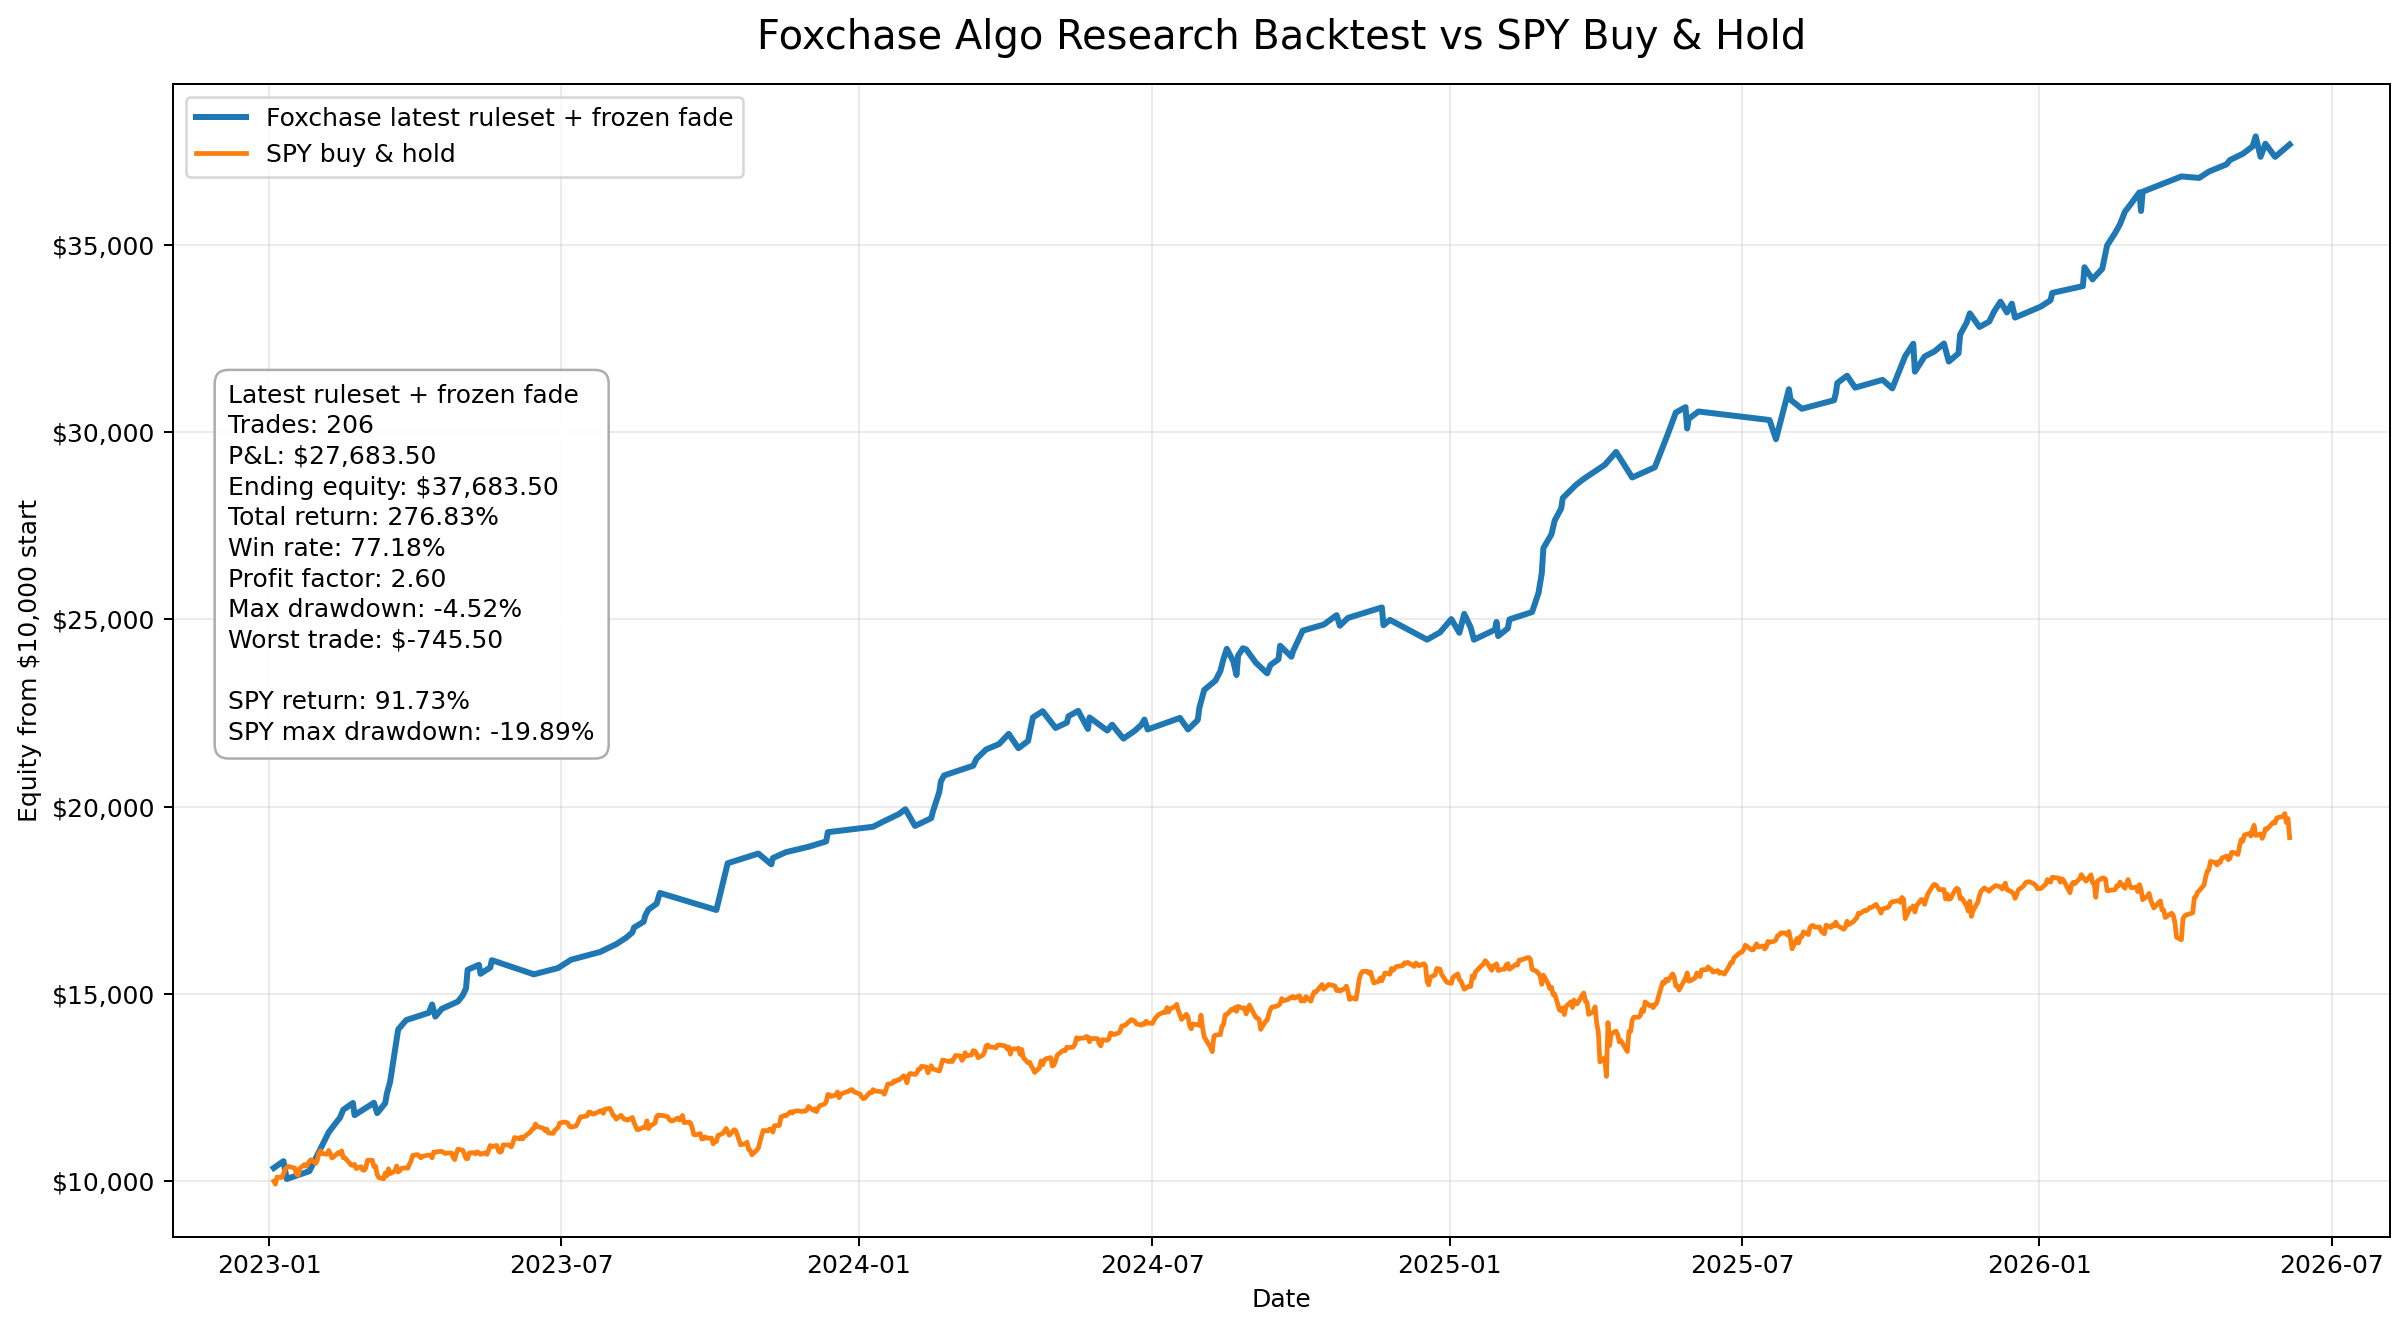
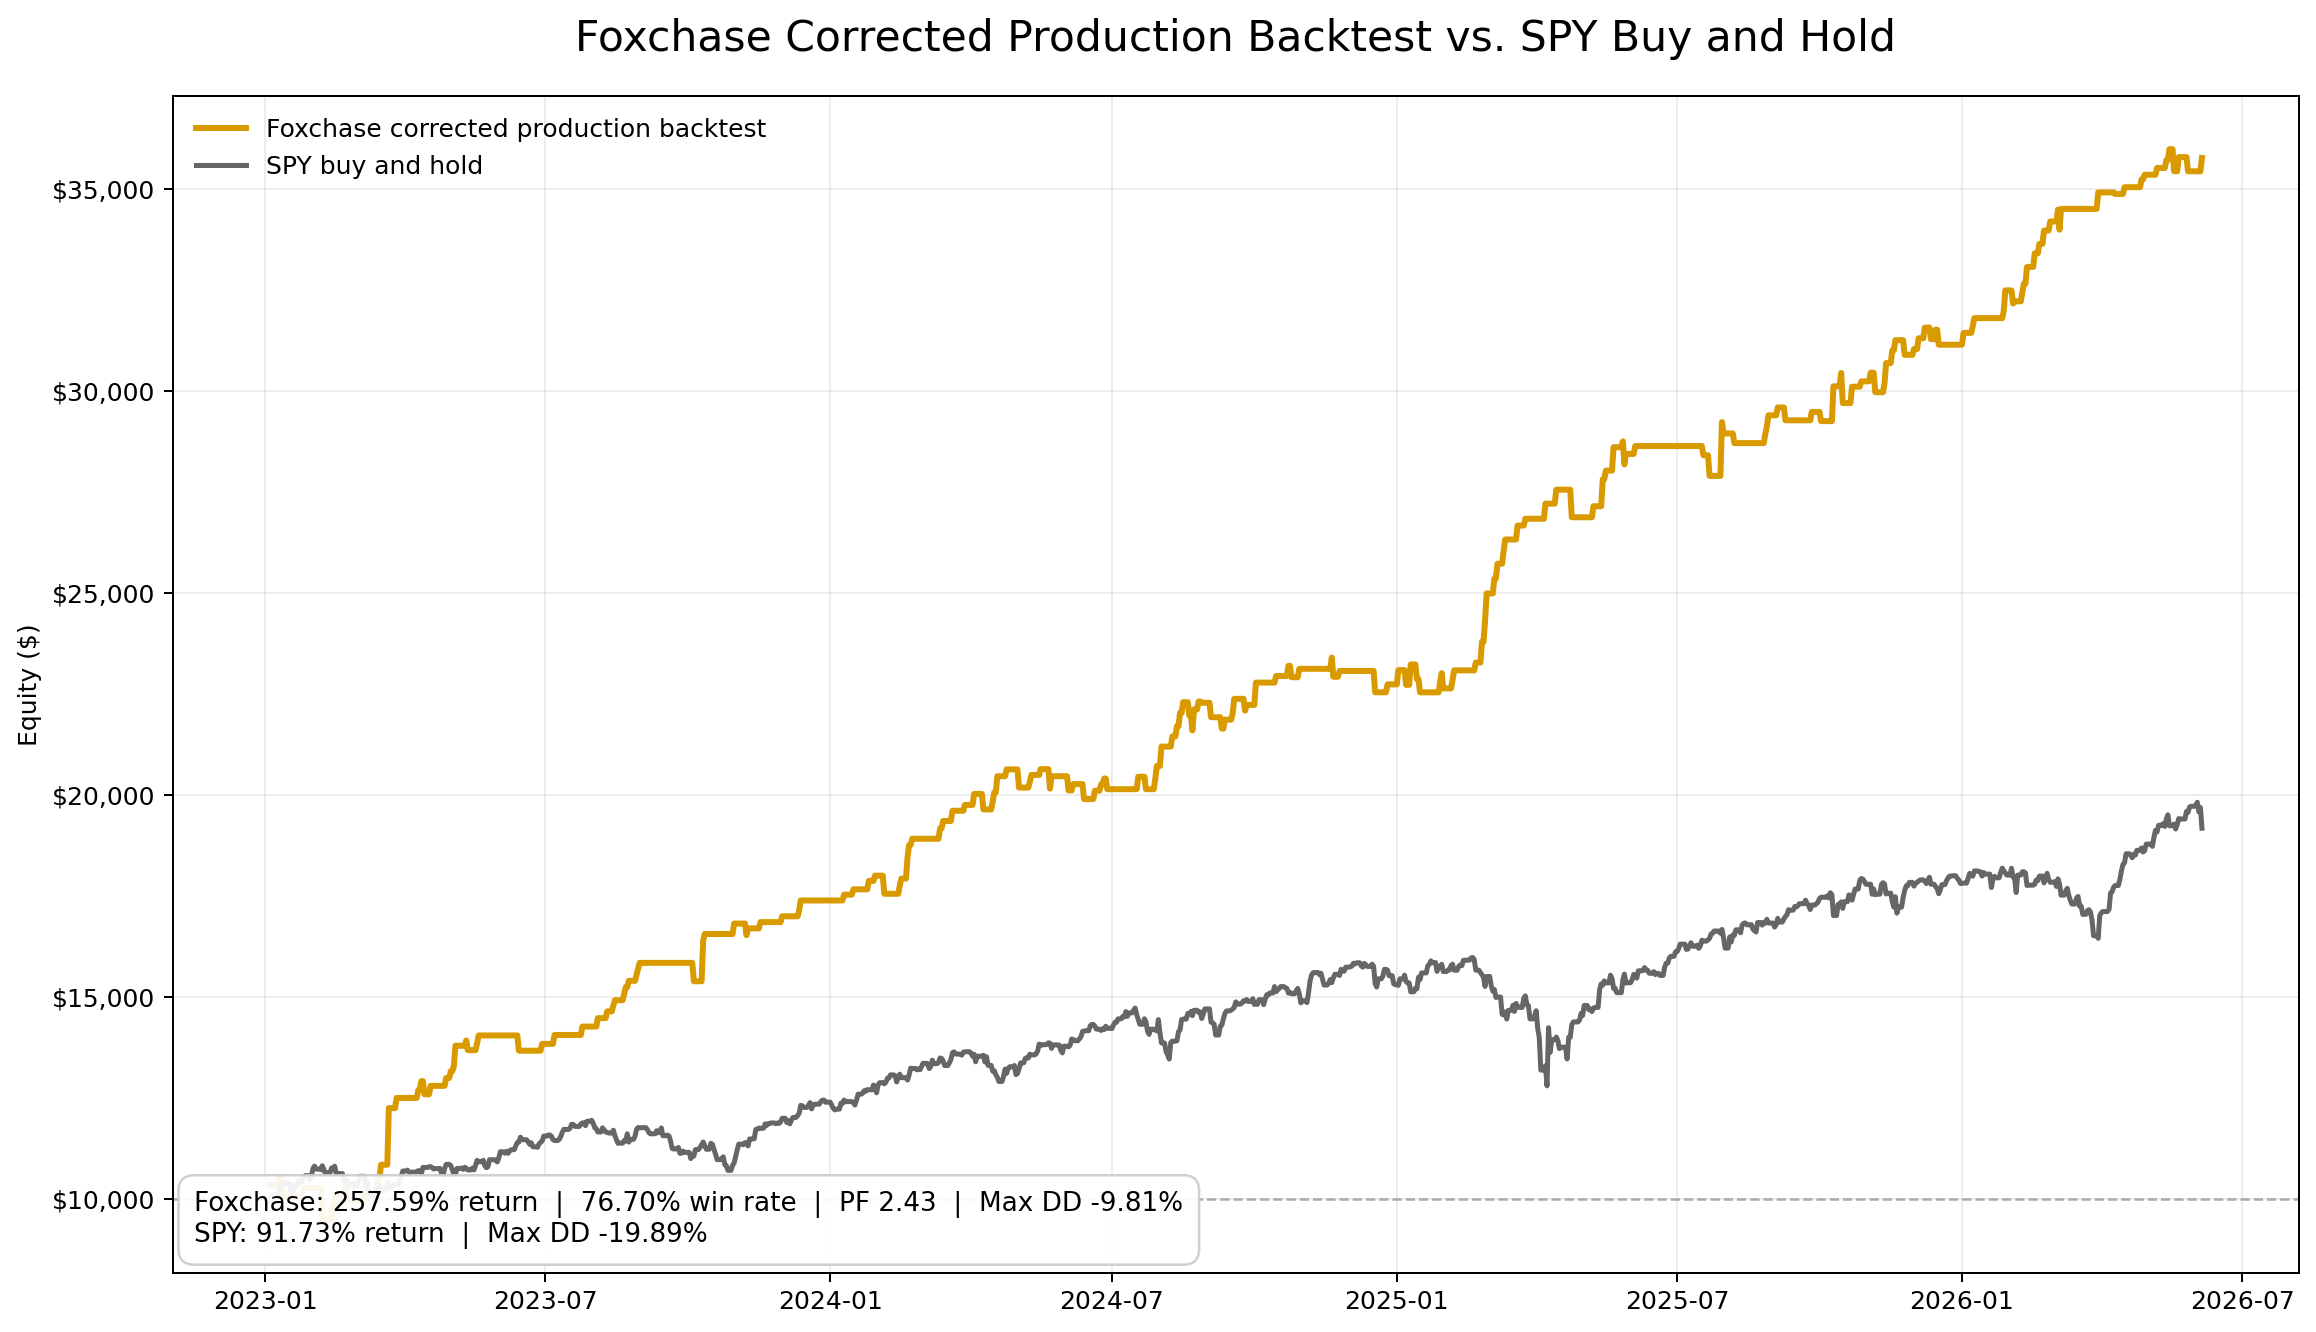
Correct algo backtest metrics and chart

diff --git a/algo-pnl.html b/algo-pnl.html
@@ -350,52 +350,55 @@ function setTextIfExists(id, value) {
 
     <div class="pnl-note">
       <strong>Research backtest, not live performance:</strong>
-      The chart below shows a historical research backtest of the latest deployed Foxchase algo research ruleset compared with SPY buy and hold.
-      The latest research ruleset includes the official selected-trade configuration, the VXX volatility guardrail, the R1 call-fly replacement candidate, and the frozen no-steal failed-downside fade sleeve now enabled in live/paper.
+      The chart below shows the corrected historical production research ledger compared with SPY buy and hold.
+      The corrected research ledger includes the official selected-trade configuration, the VXX volatility guardrail, the frozen R1 call-butterfly replacement rule, and the no-steal failed-downside fade sleeve.
       This is hypothetical backtested performance and was not achieved by the live account during the full period shown.
     </div>
 
     <div class="chart-box">
       <img
         src="/images/foxchase_latest_algo_vs_spy.png"
-        alt="Foxchase Algo Latest Ruleset + Frozen Fade Research Backtest vs SPY Buy and Hold"
+        alt="Foxchase corrected production research backtest versus SPY buy and hold"
         style="width:100%; height:auto; border-radius:8px;"
       >
     </div>
 
 
-    <!-- latest-ruleset-start -->
+        <!-- latest-ruleset-start -->
     <h2>Latest Deployed Research Ruleset</h2>
 
     <div class="pnl-note">
       <strong>Latest deployed research ruleset:</strong>
-      The current live/paper bot includes the official selected-trade framework, a narrow VXX volatility guardrail,
-      an R1 call-butterfly replacement candidate, and a frozen no-steal failed-downside fade sleeve. This latest research variant produced +$27,683.50 on a $10,000 starting account,
-      ending at $37,683.50. This represents a 276.84% total return over the research sample, not annualized,
-      with a 77.18% win rate, 2.60 profit factor, and -4.52% historical maximum drawdown.
+      The corrected production research ledger contains 206 historical trades and uses a fixed 10% risk budget per trade with non-compounded position sizing.
+      It includes the official selected-trade framework, the VXX volatility guardrail, the frozen R1 call-butterfly replacement rule, and the no-steal failed-downside fade sleeve.
+      The corrected backtest produced +$25,759.00 on a $10,000.00 starting account, ending at $35,759.00.
+      This represents a 257.59% total return over the research sample, not annualized, with a 76.70% win rate,
+      2.43 profit factor, and -9.81% historical maximum drawdown.
     </div>
 
     <div class="research-metrics">
       <div class="research-card"><div class="research-label">Latest Research Sample</div><div class="research-value">206 trades</div></div>
-      <div class="research-card"><div class="research-label">Latest Research P&amp;L</div><div class="research-value">+$27,683.50</div></div>
-      <div class="research-card"><div class="research-label">Ending Equity</div><div class="research-value">$37,683.50</div></div>
-      <div class="research-card"><div class="research-label">Total Return</div><div class="research-value">276.84%</div></div>
-      <div class="research-card"><div class="research-label">Win Rate</div><div class="research-value">77.18%</div></div>
-      <div class="research-card"><div class="research-label">Profit Factor</div><div class="research-value">2.60</div></div>
-      <div class="research-card"><div class="research-label">Max Drawdown</div><div class="research-value">-4.52%</div></div>
-      <div class="research-card"><div class="research-label">Worst Trade</div><div class="research-value">-$745.50</div></div>
+      <div class="research-card"><div class="research-label">Latest Research P&amp;L</div><div class="research-value">+$25,759.00</div></div>
+      <div class="research-card"><div class="research-label">Ending Equity</div><div class="research-value">$35,759.00</div></div>
+      <div class="research-card"><div class="research-label">Total Return</div><div class="research-value">257.59%</div></div>
+      <div class="research-card"><div class="research-label">Win Rate</div><div class="research-value">76.70%</div></div>
+      <div class="research-card"><div class="research-label">Profit Factor</div><div class="research-value">2.43</div></div>
+      <div class="research-card"><div class="research-label">Max Drawdown</div><div class="research-value">-9.81%</div></div>
+      <div class="research-card"><div class="research-label">Average Trade</div><div class="research-value">$125.04</div></div>
+      <div class="research-card"><div class="research-label">Median Trade</div><div class="research-value">$195.00</div></div>
+      <div class="research-card"><div class="research-label">Best Trade</div><div class="research-value">$1,400.00</div></div>
+      <div class="research-card"><div class="research-label">Worst Trade</div><div class="research-value">-$765.00</div></div>
       <div class="research-card"><div class="research-label">SPY Buy &amp; Hold Return</div><div class="research-value">91.73%</div></div>
       <div class="research-card"><div class="research-label">SPY Buy &amp; Hold Max DD</div><div class="research-value">-19.89%</div></div>
     </div>
     <!-- latest-ruleset-end -->
 
-    <h2>Research Durability</h2>
+        <h2>Research Durability</h2>
 
     <div class="pnl-note">
       <strong>Research sample context:</strong>
-      The latest 206-trade research ruleset produced $27,683.50 in total P&amp;L on a $10,000 starting account,
-      ending at $37,683.50. This represents a 276.84% total return over the research sample, not annualized,
-      with a 77.18% win rate, 2.60 profit factor, and -4.52% historical maximum drawdown.
+      The corrected 206-trade production research ledger generated +$25,759.00 from $10,000.00 of starting equity.
+      Results below are recalculated directly from the corrected trade ledger rather than carried forward from the superseded butterfly ledger.
     </div>
 
     <div class="research-metrics">
@@ -405,9 +408,8 @@ function setTextIfExists(id, value) {
       <div class="research-card"><div class="research-label">Profitable Rolling 12-Month Windows</div><div class="research-value">31 / 31</div></div>
       <div class="research-card"><div class="research-label">Worst Rolling 3-Month P&amp;L</div><div class="research-value">-$484.50</div></div>
       <div class="research-card"><div class="research-label">Worst Rolling 6-Month P&amp;L</div><div class="research-value">+$1,919.50</div></div>
-      <div class="research-card"><div class="research-label">Worst Rolling 12-Month P&amp;L</div><div class="research-value">+$4,622.50</div></div>
+      <div class="research-card"><div class="research-label">Worst Rolling 12-Month P&amp;L</div><div class="research-value">+$4,634.00</div></div>
     </div>
-
 
     <h2>Anonymized Setup Attribution</h2>
 
@@ -417,7 +419,7 @@ function setTextIfExists(id, value) {
           <tr>
             <th>Strategy Sleeve</th>
             <th>Trades</th>
-            <th>P&L</th>
+            <th>P&amp;L</th>
             <th>Win Rate</th>
             <th>PF</th>
             <th>Median</th>
@@ -427,32 +429,27 @@ function setTextIfExists(id, value) {
         <tbody>
           <tr><td>Setup A</td><td>108</td><td>$6,509.00</td><td>72.22%</td><td>1.64</td><td>$168.00</td><td>-$570.00</td></tr>
           <tr><td>Setup B</td><td>24</td><td>$5,153.50</td><td>83.33%</td><td>3.90</td><td>$301.00</td><td>-$511.00</td></tr>
-          <tr><td>Setup C</td><td>16</td><td>$4,705.00</td><td>81.25%</td><td>3.41</td><td>$502.25</td><td>-$745.50</td></tr>
-          <tr><td>Setup D</td><td>11</td><td>$2,645.50</td><td>81.82%</td><td>2.34</td><td>$500.00</td><td>-$997.50</td></tr>
-          <tr><td>Setup E</td><td>34</td><td>$1,102.50</td><td>70.59%</td><td>1.28</td><td>$162.00</td><td>-$855.00</td></tr>
-            <tr>
-              <td>Setup F</td>
-              <td>19</td>
-              <td>$3,027.00</td>
-              <td>89.47%</td>
-              <td>4.33</td>
-              <td>$208.00</td>
-              <td>-$546.00</td>
-            </tr>
+          <tr><td>Setup C</td><td>10</td><td>$2,204.00</td><td>70.00%</td><td>2.13</td><td>$440.00</td><td>-$745.50</td></tr>
+          <tr><td>Setup D</td><td>8</td><td>$4,123.00</td><td>100.00%</td><td>∞</td><td>$509.25</td><td>$480.00</td></tr>
+          <tr><td>Setup E</td><td>6</td><td>$2,467.00</td><td>83.33%</td><td>4.22</td><td>$350.75</td><td>-$765.00</td></tr>
+          <tr><td>Setup F</td><td>31</td><td>$2,275.50</td><td>74.19%</td><td>1.96</td><td>$168.00</td><td>-$483.00</td></tr>
+          <tr><td>Setup G</td><td>19</td><td>$3,027.00</td><td>89.47%</td><td>4.33</td><td>$208.00</td><td>-$546.00</td></tr>
         </tbody>
       </table>
     </div>
 
     <p class="small">
-      Setup-level attribution is shown using anonymized strategy sleeves. Setups A–E represent the original official selected-trade framework, while Setup F represents the frozen no-steal expansion sleeve now enabled in live/paper. The exact trigger logic, regime definitions,
-      level framework, and execution rules are proprietary to the Foxchase framework.
+      Setup-level attribution is shown using seven anonymized production sleeves.
+      Setups A–F represent the corrected primary production framework, including the frozen call-butterfly replacement as its own sleeve.
+      Setup G represents the frozen no-steal failed-downside fade sleeve.
+      The exact trigger logic, regime definitions, level framework, and execution rules are proprietary to the Foxchase framework.
     </p>
 
     <p class="small">
       Backtest assumptions: $10,000 starting equity, fixed 10% risk budget per trade, and non-compounded position sizing.
       Position size does not increase as the backtest equity curve grows.
       The backtest allows one trade per day maximum, uses SPY 0DTE options, and assumes mid-price entry/exit fills.
-      The latest ruleset uses replacement logic for the R1 call-butterfly candidate rather than adding a second same-day trade. The failed-downside fade sleeve is also no-steal only and is used only on days where the primary ruleset has no trade.
+      The corrected ruleset uses frozen replacement logic for the R1 call butterfly rather than adding a second same-day trade. The failed-downside fade sleeve is also no-steal only and is used only on days where the primary ruleset has no trade.
       Historical options quote data was sourced from ThetaData.
     </p>
 